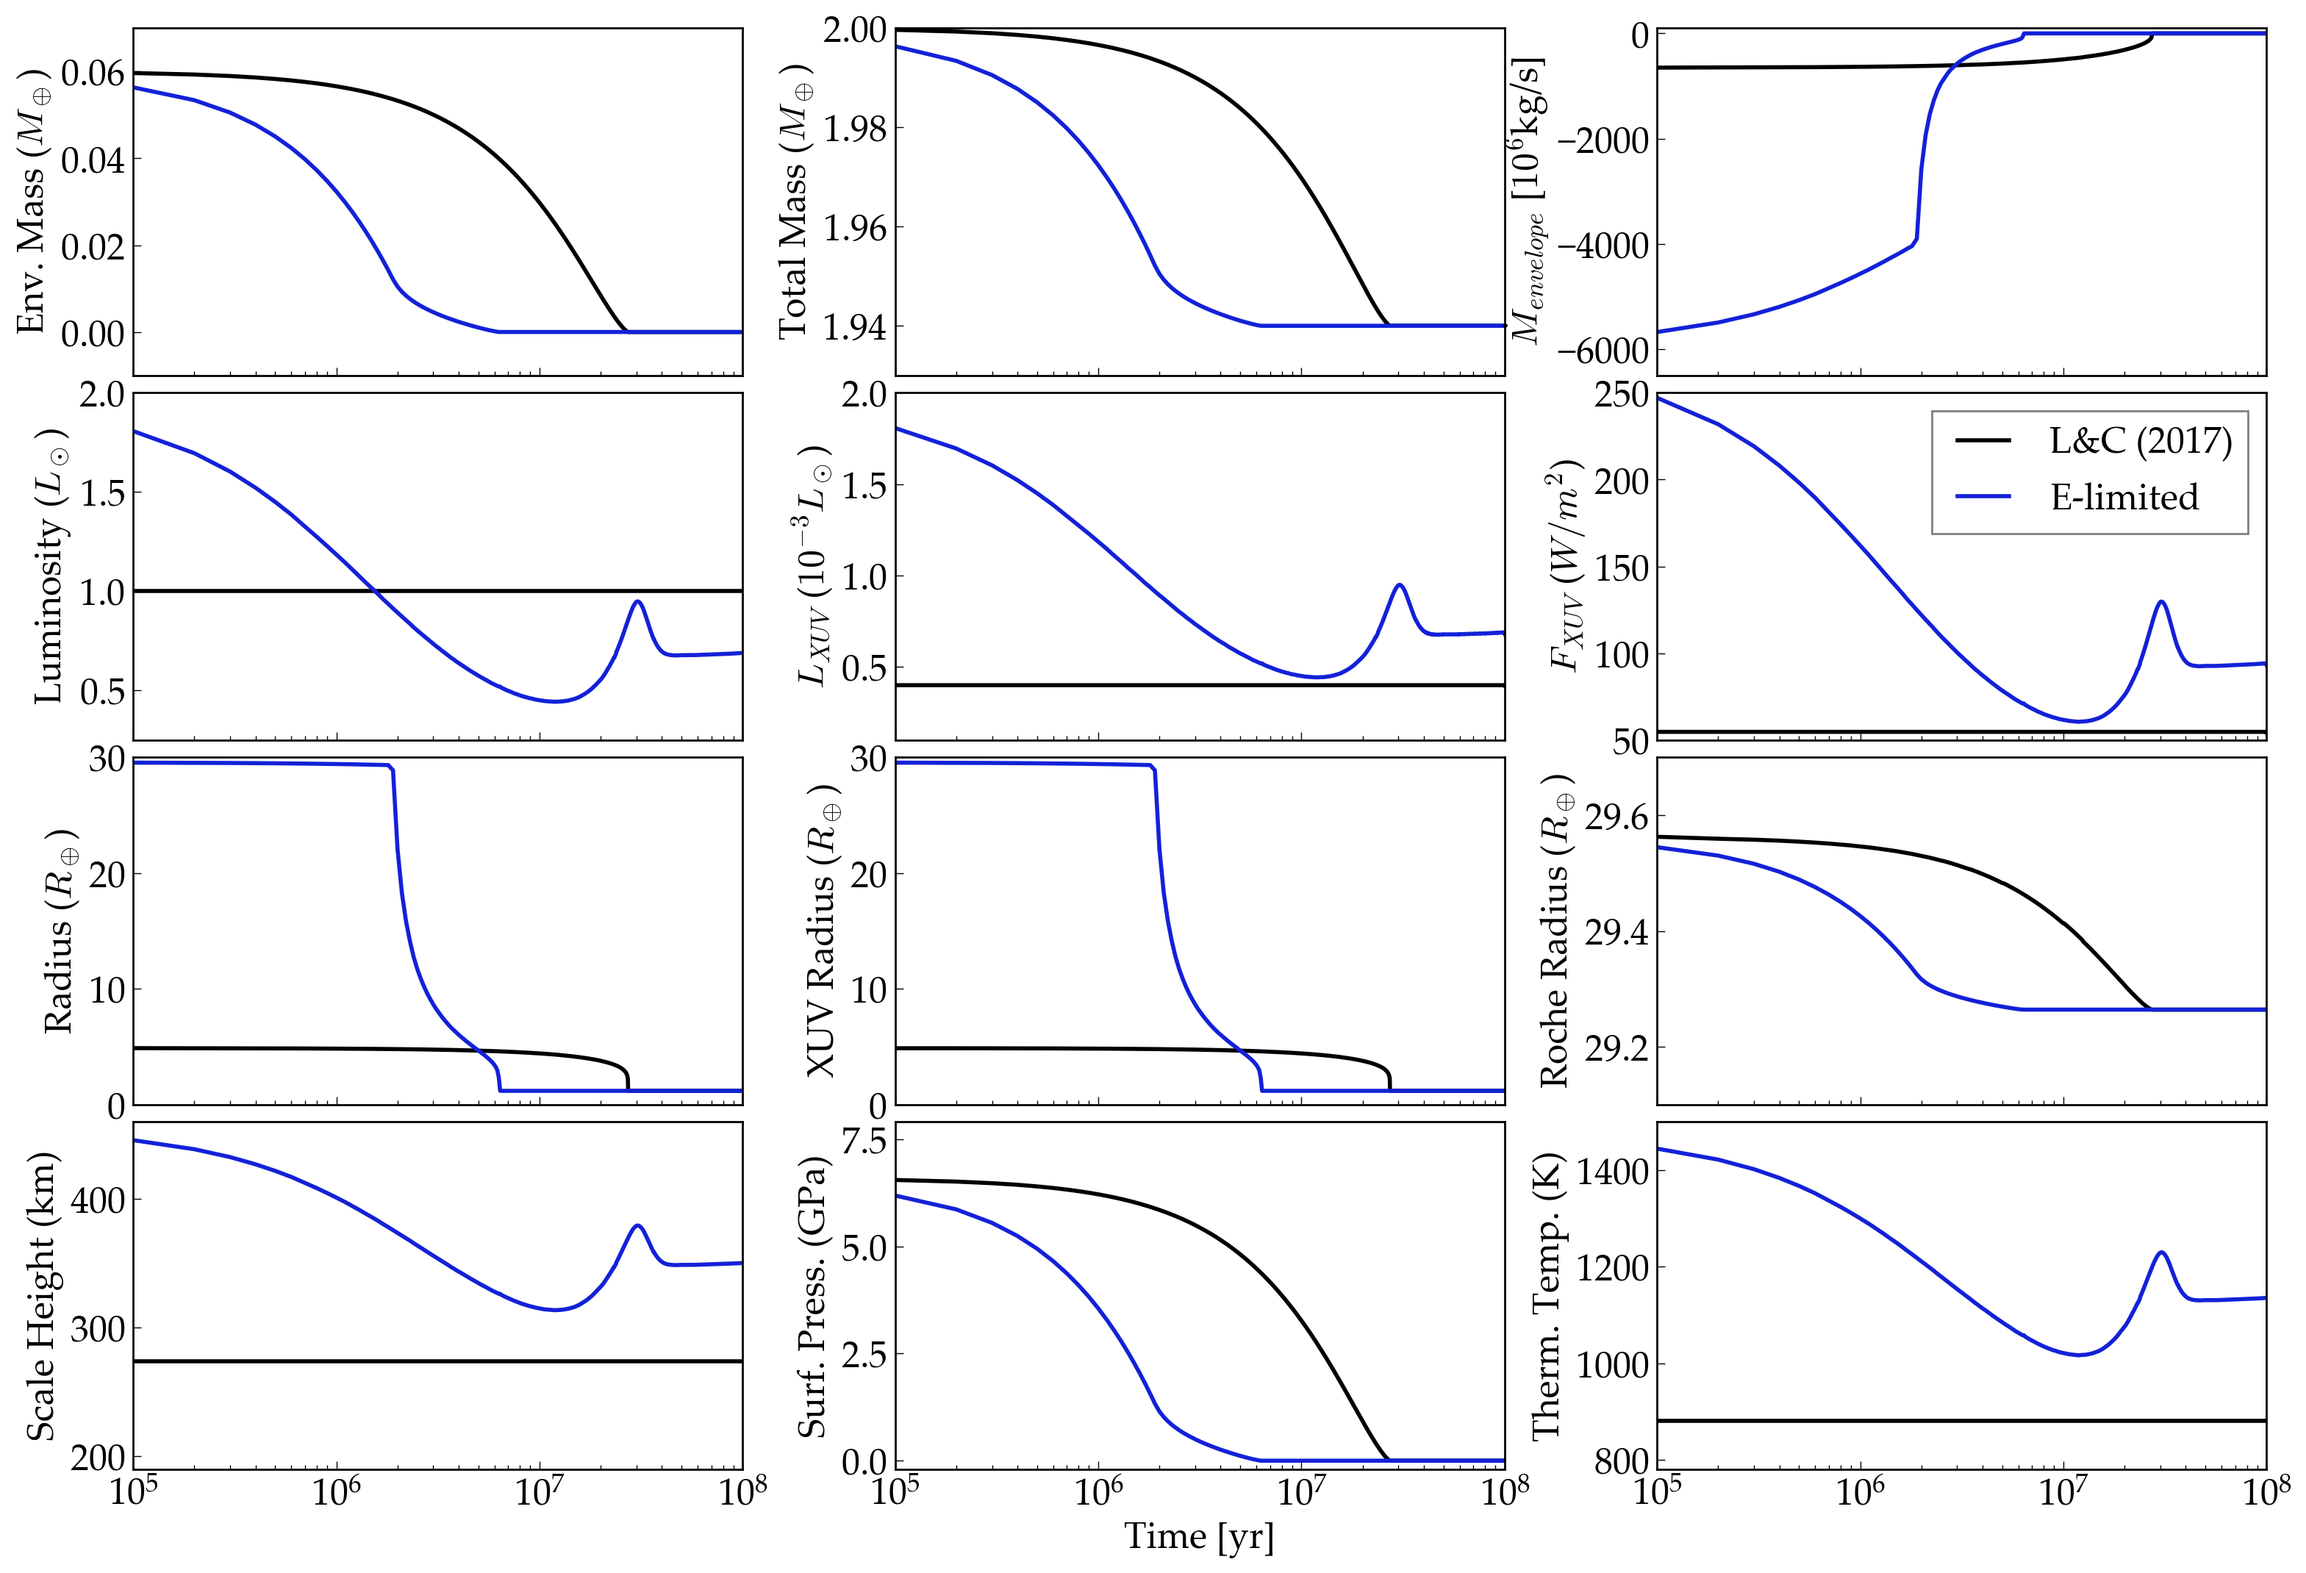
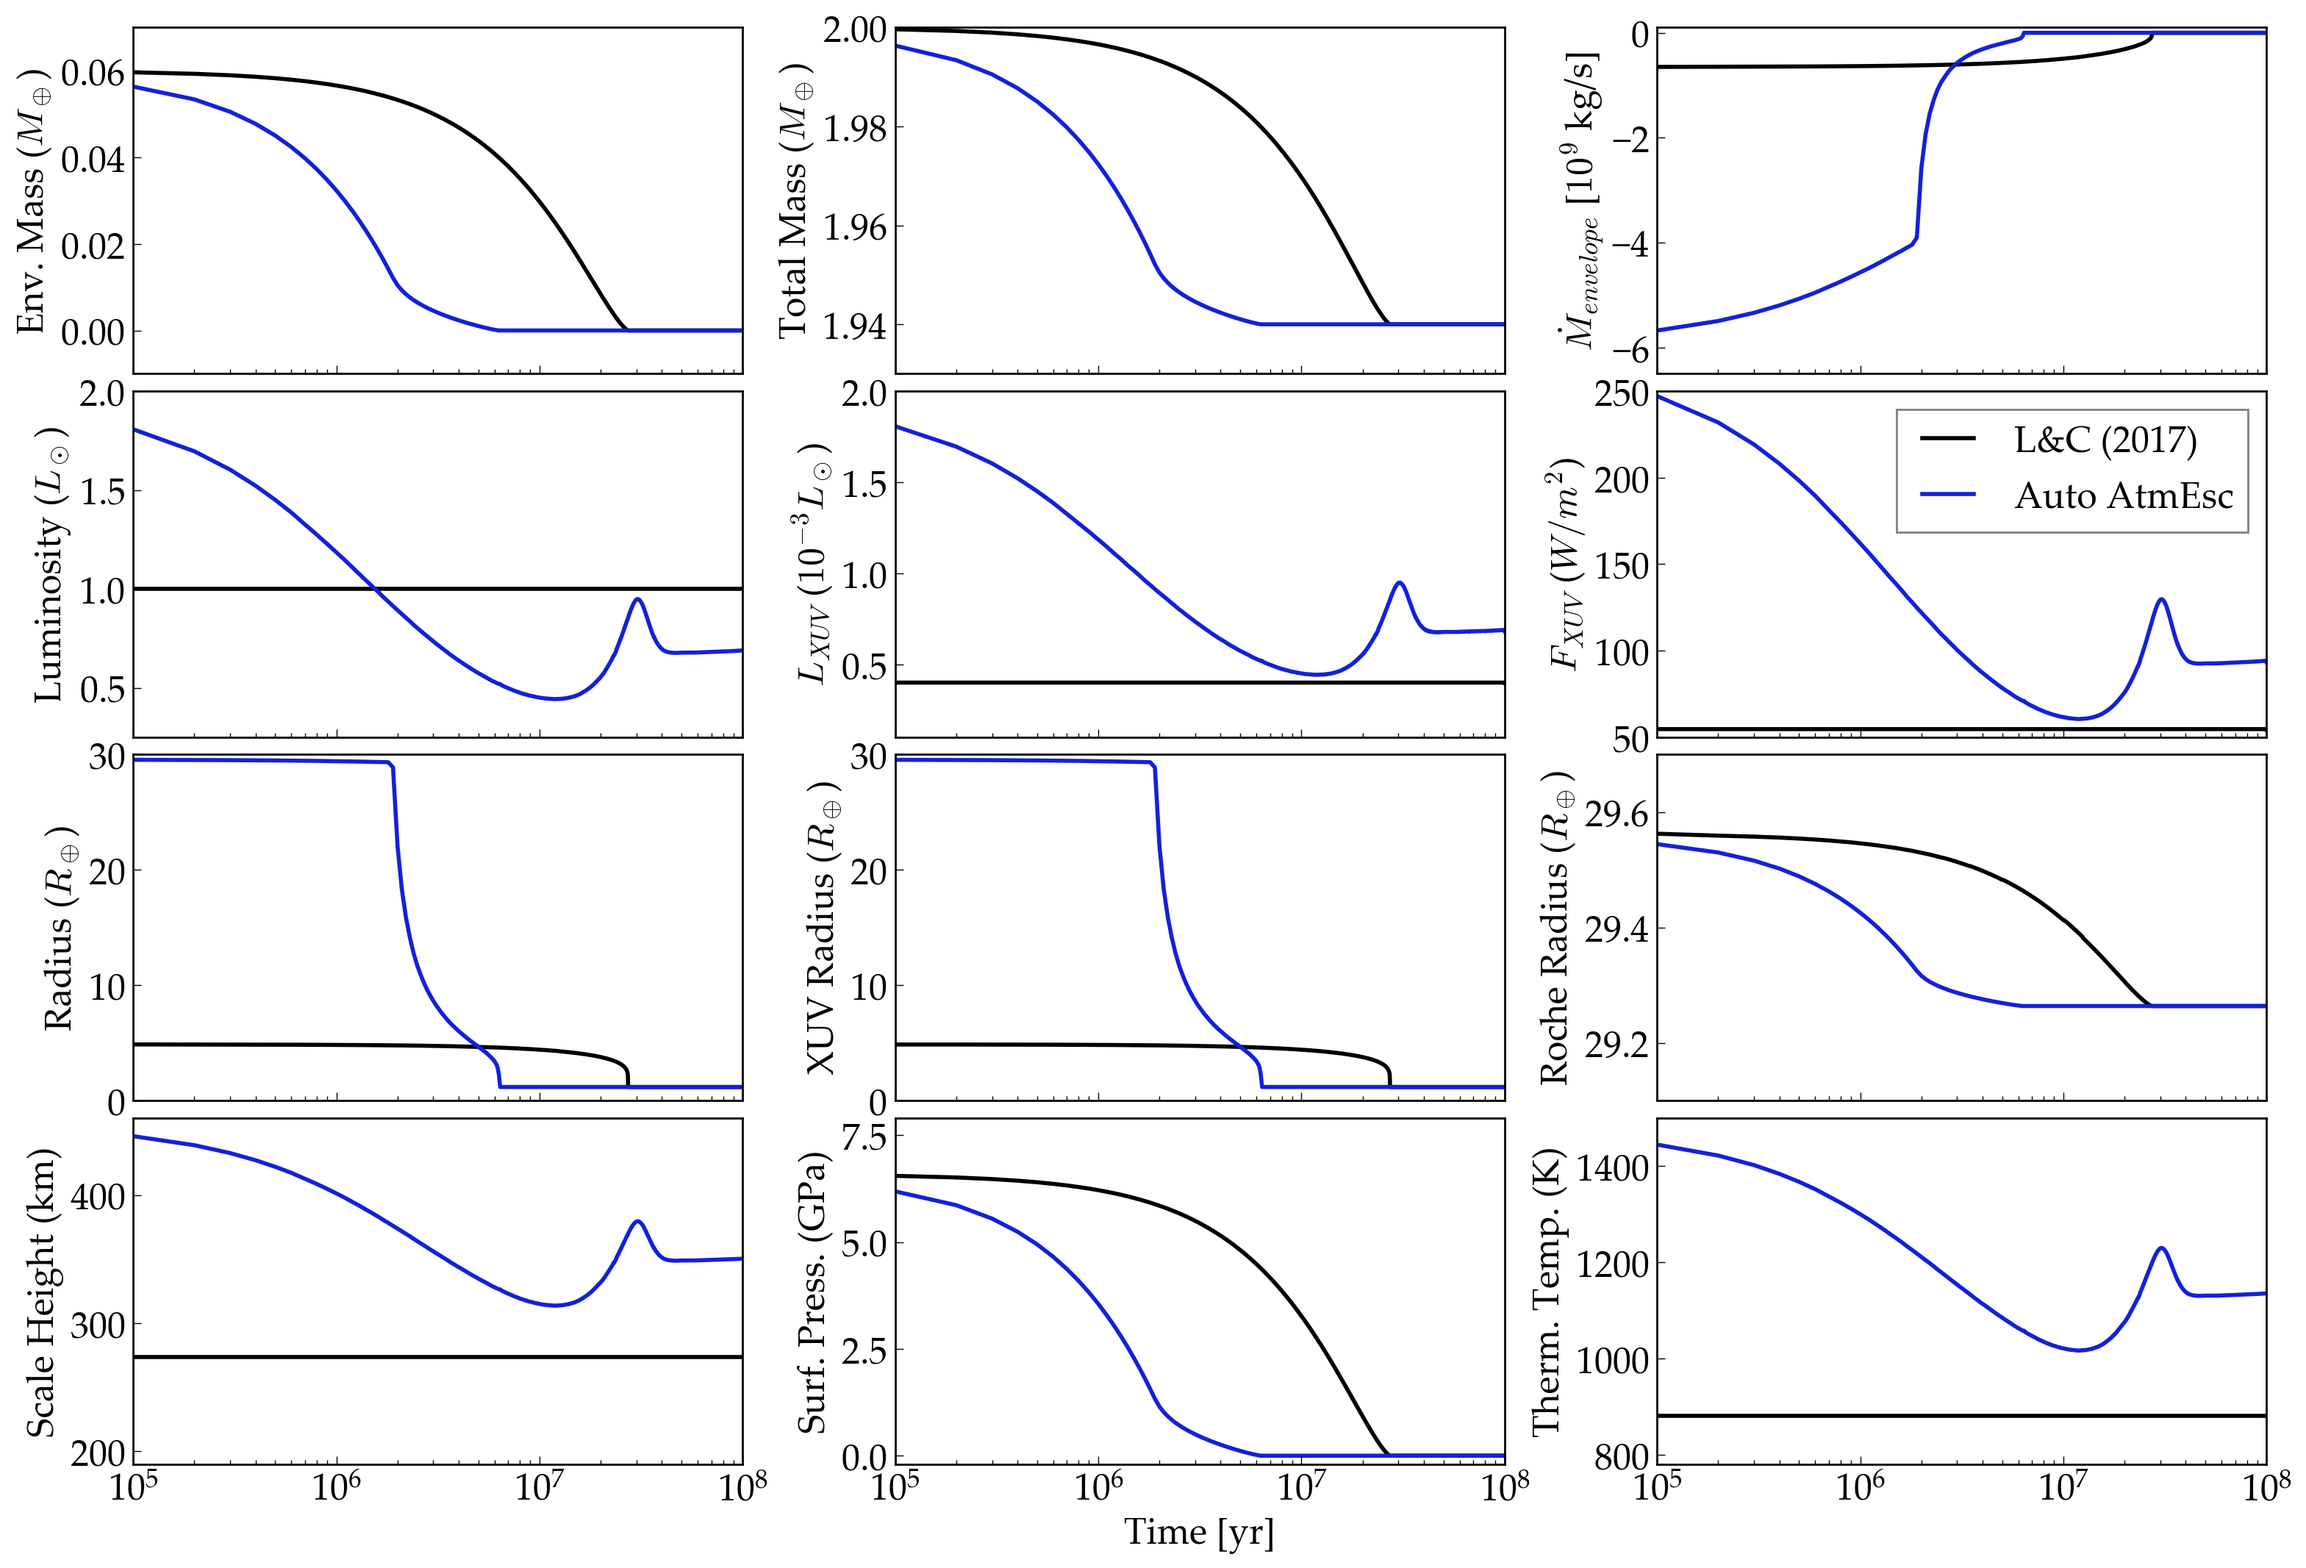
Modified makeplot.py so mass loss is in Gkg/s.
Added README.

diff --git a/examples/MiniNeptuneEvap/makeplot.py b/examples/MiniNeptuneEvap/makeplot.py
@@ -65,12 +65,12 @@ axes[0,1].set_ylim(1.93, 2)
 axes[0,1].set_ylabel(r"Total Mass ($M_\oplus$)")
 
 ## Upper right: Envelope mass time derivative ##
-axes[0,2].plot(time, lc17.planet.DEnvMassDt/1e6, color='k')
-axes[0,2].plot(time, dyn.planet.DEnvMassDt/1e6, color=vpl.colors.dark_blue)
+axes[0,2].plot(time, lc17.planet.DEnvMassDt/1e9, color='k')
+axes[0,2].plot(time, dyn.planet.DEnvMassDt/1e9, color=vpl.colors.dark_blue)
 
-axes[0,2].set_ylim(-6500, 100)
+axes[0,2].set_ylim(-6.5, 0.1)
 #axes[0,2].set_yscale("symlog", linthreshy=0.1)
-axes[0,2].set_ylabel(r"$\dot{M}_{envelope}$ [$10^6$kg/s]")
+axes[0,2].set_ylabel(r"$\dot{M}_{envelope}$ [$10^9$ kg/s]")
 
 ## Upper Middle left: Stellar Luminosity
 axes[1,0].plot(time, lc17.star.Luminosity, color='k')
@@ -90,7 +90,7 @@ axes[1,1].set_ylabel(r"$L_{XUV}$ ($10^{-3}L_\odot$)")
 
 ## Upper Right middle: Incident XUV flux
 axes[1,2].plot(time, lc17.planet.FXUV, color='k',label='L&C (2017)')
-axes[1,2].plot(time, dyn.planet.FXUV, color=vpl.colors.dark_blue,label='E-limited')
+axes[1,2].plot(time, dyn.planet.FXUV, color=vpl.colors.dark_blue,label='Auto AtmEsc')
 axes[1,2].legend(loc='upper right')
 
 # Format

diff --git a/examples/MiniNeptuneEvap/README.rst b/examples/MiniNeptuneEvap/README.rst
@@ -1,0 +1,49 @@
+Atmospheric Erosion of Mini-Neptunes with the Lehmer & Catling (2017) Model
+===========================================================================
+
+Overview
+--------
+
+This examples compares the atmospheric erosion of two "mini-Neptunes" using the
+H envelope model from Lehmer & Catling (2017).
+
+===================   ============
+**Date**              10/15/2019
+**Author**            Rory Barnes, Diego McDonald
+**Modules**           AtmEsc
+                      STELLAR
+**Approx. runtime**   10 seconds
+===================   ============
+
+To run this example
+-------------------
+
+.. code-block:: bash
+
+    vplanet vpl.in
+    python makeplot.py <pdf | png>
+
+
+Expected output
+---------------
+
+.. figure:: MiniNeptuneEvap.png
+   :width: 600px
+   :align: center
+
+   Evolution of the H envelope mass (top left), total planet mass  (top center),
+   time derivative of the envelope mass (top right), stellar luminosity (upper
+   middle left) XUV luminosity (upper middle center) incident XUV flux (upper
+   middle left), planet radius (lower middle left), XUV radius (lower middle
+   center), Roche lobe radius (lower middle right), envelope scale height (bottom
+   left), surface pressure (bottom center), and the envelope's temperature
+   (bottom right). In both cases, the envelope follows the planetary radius
+   model of Lehmer & Catling (2017). The black line assumes constant luminosity
+   thermal temperature, incident flux, and assumes the planet loses mass via
+   energy limited escape; this case reproduces Fig. 3 in Lehmer & Catling (2017).
+   The blue curve includes stellar evolution, assumes the thermal temperature
+   responds to the evolving radiation field, and that the escape can transition
+   between radiation-recombination-limited escape and energy-limited escape,
+   i.e. it uses the bAtmEscAuto setting. For this latter case, the initial
+   radius exceeds the Roche lobe radius, and so we assume the mass is all
+   contained within that radius.
